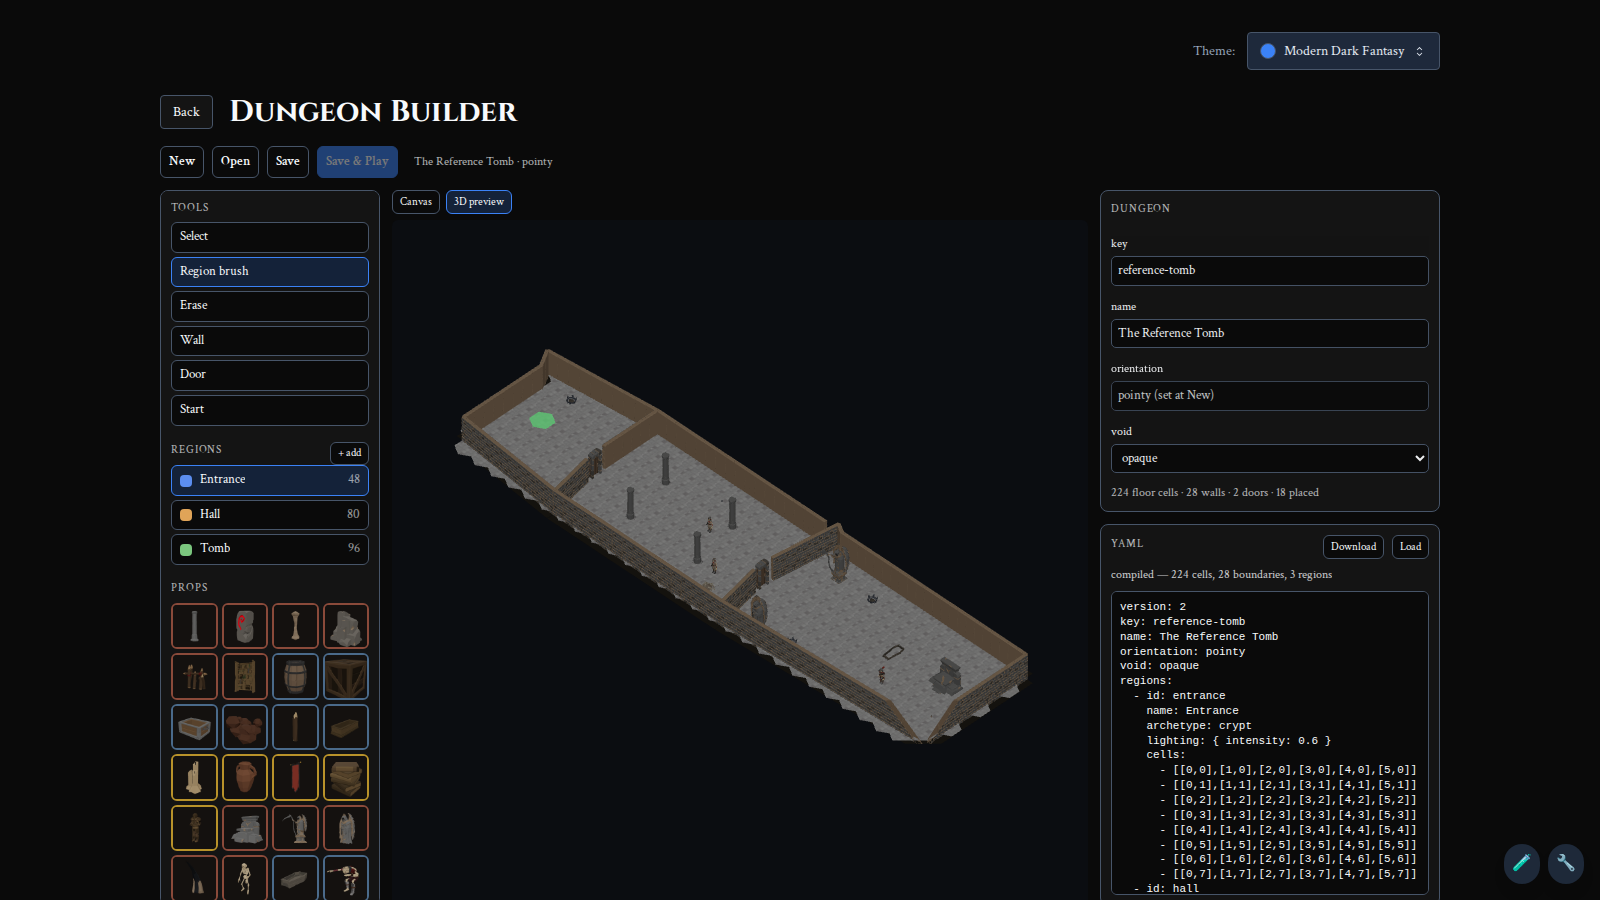
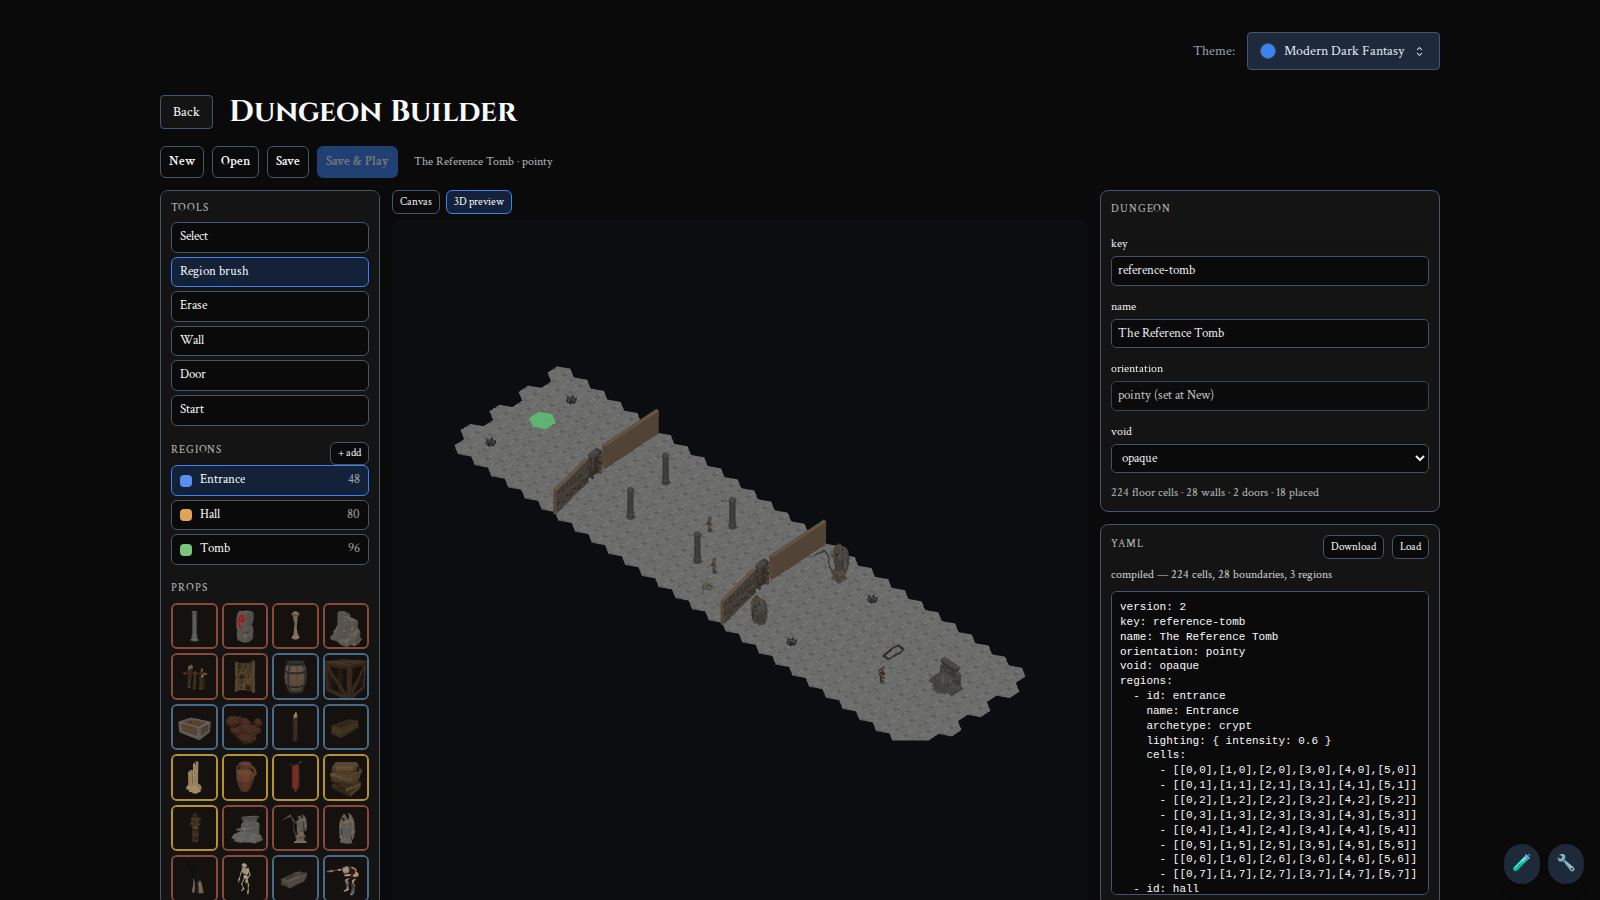
fix(session): draw nothing at the floor's own outer edge (Kirk ruling)
Kirk's live-walk ruling on PR #788, same day as #787's own fix:
"draw nothing, floor ends into darkness. that seems more honest about
the void." The floor/void envelope -- even the corrected version that
traced the real floor mask's outline instead of a bounding rectangle
-- is gone entirely. boundariesToWallRuns now feeds only atlas's
declared boundaries and doorways into the chaining engine; the floor's
own outer edge renders no wall geometry at all, authored or implied.
The void already blocks movement/sight mechanically (opaque void
blocks the whole hex); a floor that just ends into darkness is the
honest picture. An author who wants a visible outer wall draws one
like any other boundary -- no special casing, proven by a new test
that declares a boundary against a non-floor neighbor and confirms it
renders through the exact same code path as an interior wall.

Tests updated: the "envelope follows the real outline" test (added for
the original #787 fix) is replaced by a "draws nothing without a
declared wall" test; the reference-tomb regression now pins the
PERIMETER'S ABSENCE (no wall run near the true floor edges) instead of
its presence, while still pinning the two authored interior seams and
two door gaps unchanged. Screenshot in docs/evidence/ regenerated
against the new build to show the actual render: bare floor edges,
two straight interior walls.

Claude-Session: https://claude.ai/code/session_017MbNn6jFLjJwzTw6ZbY5M1

Changed region(s): [[0.2812, 0.3733, 0.6562, 0.84]]

diff --git a/src/components/session/atlasWallRuns.test.ts b/src/components/session/atlasWallRuns.test.ts
@@ -1,12 +1,25 @@
 /**
  * atlasWallRuns tests — straight-run geometry chained straight off the
  * authored edges (rpg-dnd5e-web#787), checked against the real 224-cell
- * reference-tomb fixture (Kirk's live-walk regression pin: same straight
- * envelope, same two seams, same two door gaps) and against small
- * hand-built fixtures for the shapes the real data doesn't exercise: a
- * partial interior wall that doesn't split the floor, an L-shaped seam,
- * a horizontal (row-type) seam, two doors on one seam, and a
- * non-rectangular floor's envelope.
+ * reference-tomb fixture (Kirk's live-walk regression pin: same two
+ * straight seams, same two door gaps — see the ruling-change note below
+ * for what changed about the PERIMETER) and against small hand-built
+ * fixtures for the shapes the real data doesn't exercise: a partial
+ * interior wall that doesn't split the floor, an L-shaped seam, a
+ * horizontal (row-type) seam, two doors on one seam, and a doorway
+ * overlapping a boundary on the same cell pair.
+ *
+ * # Ruling change, same day as #787
+ *
+ * Kirk, after seeing the first version (which traced the floor mask's
+ * real outline instead of a bounding rectangle) live: "draw nothing,
+ * floor ends into darkness. that seems more honest about the void." The
+ * floor's own outer edge draws NO wall geometry at all now, authored or
+ * implied — only `atlas.boundaries` and `atlas.doorways` render. An
+ * author who wants a visible outer wall draws one like any other
+ * boundary (see the "author-drawn wall at the floor's own edge"
+ * describe block below) — there is no special-cased "envelope" concept
+ * left to test.
  *
  * Coverage-style assertions ("every declared edge's own midpoint lies
  * near SOME run") rather than exact run counts, mirroring
@@ -179,17 +192,17 @@ describe('boundariesToWallRuns — the real reference tomb', () => {
     }
   });
 
-  it('the combined floor still reads as a wide footprint enclosing the whole 28x8 shape (same overall envelope Kirk approved, not a per-run recount)', () => {
+  it('draws nothing at the floor\'s own outer edge — ruling change, same day as #787 ("draw nothing, floor ends into darkness"): only the two interior seams render, not a perimeter', () => {
+    // The combined floor spans world x roughly 0..47.6 (28 columns *
+    // sqrt(3) hex spacing). If any perimeter wall geometry were still
+    // being drawn (the superseded outline-traced version), some run
+    // would sit near x=0 or x=47.6. With only the two interior seams
+    // (authored boundaries) rendering, every run's own geometry stays
+    // well inside that range, clustered around the two seams' own
+    // historically-measured x-bands (~9.5 and ~26.8).
     const xs = scene.wallRuns.flatMap((r) => [r.start.x, r.end.x]);
-    const zs = scene.wallRuns.flatMap((r) => [r.start.z, r.end.z]);
-    const width = Math.max(...xs) - Math.min(...xs);
-    const height = Math.max(...zs) - Math.min(...zs);
-    expect(width).toBeGreaterThan(45);
-    expect(width).toBeLessThan(55);
-    expect(height).toBeGreaterThan(8);
-    expect(height).toBeLessThan(13);
-    expect(Math.min(...xs)).toBeLessThan(1);
-    expect(Math.max(...xs)).toBeGreaterThan(46);
+    expect(Math.min(...xs)).toBeGreaterThan(5);
+    expect(Math.max(...xs)).toBeLessThan(35);
   });
 
   it('gives every run a finite, unit-length facing vector and non-zero length', () => {
@@ -305,7 +318,8 @@ describe('boundariesToWallRuns — an L-shaped interior seam', () => {
       },
       1
     );
-    // More than one run in total (interior seam + floor envelope).
+    // More than one run in total — the seam itself breaks into at least
+    // two legs at its corner (no floor envelope contributes anymore).
     expect(scene.wallRuns.length).toBeGreaterThan(1);
     // Every one of this interior wall's own declared edges — including
     // the ones flanking its 4 corners — is covered by some run: a bad
@@ -428,13 +442,13 @@ describe('boundariesToWallRuns — two doorways on the same seam (#782)', () => 
   });
 });
 
-describe('boundariesToWallRuns — a non-rectangular floor', () => {
-  it('the envelope follows the real notch, not the bounding rectangle: the notch’s own newly-exposed edges are covered by a run', () => {
-    // A 3x3 block missing its (2,2) corner cell — an L/notched floor. A
-    // bounding-RECTANGLE envelope has no per-cell adjacency data at all,
-    // so it could never place a wall at the notch (it only ever knows
-    // the floor's min/max col/row); the real outline tracer does, because
-    // it walks actual floor-vs-void adjacency.
+describe('boundariesToWallRuns — a non-rectangular floor with no declared walls', () => {
+  it('draws nothing at all, notch or no notch — there is no implied outline to trace anymore', () => {
+    // A 3x3 block missing its (2,2) corner cell — an L/notched floor,
+    // with NO boundaries or doorways declared. Before the ruling change
+    // this asserted the envelope traced the real notch instead of a
+    // bounding rectangle; now there is no envelope of any kind, so an
+    // undeclared floor edge (notched or straight) draws nothing at all.
     const cells: unknown[] = [];
     for (let q = 0; q <= 2; q++) {
       for (let r = 0; r <= 2; r++) {
@@ -446,18 +460,49 @@ describe('boundariesToWallRuns — a non-rectangular floor', () => {
       { cells: cells as never, boundaries: [] as never, doorways: [] as never },
       1
     );
-    // The two edges that exist ONLY because (2,2) is missing: (1,2)'s and
-    // (2,1)'s own edges toward where (2,2) would have been floor.
-    const notchEdges: Array<[CubeCoord, CubeCoord]> = [
-      [positionToCube(pos(1, 2)), positionToCube(pos(2, 2))],
-      [positionToCube(pos(2, 1)), positionToCube(pos(2, 2))],
+    expect(scene.wallRuns).toEqual([]);
+    expect(scene.doorGaps).toEqual([]);
+  });
+});
+
+describe('boundariesToWallRuns — an author-drawn wall at the floor’s own edge', () => {
+  it('renders exactly like any other boundary — no special-cased envelope path (ruling point 2: "if an author wants a visible outer wall, they draw it like any other wall")', () => {
+    // A single floor cell with ONE declared boundary against a NON-floor
+    // (void) neighbor — an author explicitly drawing an outer wall,
+    // using the exact same `atlas.boundaries` shape an interior wall
+    // uses. This module never checks whether a boundary's `to` is in
+    // the floor mask, so this is the same code path as any other
+    // boundary edge, proving the "no special casing" half of the ruling.
+    const cells = [pos(0, 0)];
+    const from = positionToCube(pos(0, 0));
+    const to = positionToCube(pos(1, 0)); // not in `cells` — a void neighbor
+    const boundaries = [
+      {
+        from: pos(0, 0),
+        to: pos(1, 0),
+        blocksMovement: true,
+        blocksLineOfSight: true,
+      },
     ];
-    for (const [from, to] of notchEdges) {
-      const mid = edgeMid(from, to);
-      expect(nearestRunDistance(mid, scene.wallRuns)).toBeLessThanOrEqual(
-        CHAIN_TOLERANCE + 1e-6
-      );
-    }
+    const scene = boundariesToWallRuns(
+      {
+        cells: cells as never,
+        boundaries: boundaries as never,
+        doorways: [] as never,
+      },
+      1
+    );
+    const { a, b } = hexEdgeBetween(from, to, 1);
+    const matchesRun = scene.wallRuns.some((r) => {
+      const forward =
+        Math.hypot(r.start.x - a.x, r.start.z - a.z) < 1e-6 &&
+        Math.hypot(r.end.x - b.x, r.end.z - b.z) < 1e-6;
+      const reverse =
+        Math.hypot(r.start.x - b.x, r.start.z - b.z) < 1e-6 &&
+        Math.hypot(r.end.x - a.x, r.end.z - a.z) < 1e-6;
+      return forward || reverse;
+    });
+    expect(matchesRun).toBe(true);
   });
 });
 
@@ -467,11 +512,20 @@ describe('boundariesToWallRuns — a doorway declared on the same cell pair as a
     // through" a declared boundary on the exact same adjacent cell pair.
     // If both edges were fed to the chaining engine unfiltered, the
     // boundary would still tile as a normal wall run and cover the door.
+    // An unrelated second boundary elsewhere in the fixture keeps this a
+    // real discriminator (scene.wallRuns isn't simply empty) now that
+    // there's no floor envelope to also fall back on.
     const cells = [pos(0, 0), pos(1, 0), pos(0, 1), pos(1, 1)];
     const boundaries = [
       {
         from: pos(0, 0),
         to: pos(1, 0),
+        blocksMovement: true,
+        blocksLineOfSight: true,
+      },
+      {
+        from: pos(0, 1),
+        to: pos(1, 1),
         blocksMovement: true,
         blocksLineOfSight: true,
       },
@@ -486,6 +540,7 @@ describe('boundariesToWallRuns — a doorway declared on the same cell pair as a
       1
     );
     expect(scene.doorGaps).toHaveLength(1);
+    expect(scene.wallRuns.length).toBeGreaterThan(0); // the OTHER boundary still renders
     const from = positionToCube(pos(0, 0));
     const to = positionToCube(pos(1, 0));
     const { a, b } = hexEdgeBetween(from, to, 1);
@@ -509,16 +564,13 @@ describe('boundariesToWallRuns — a doorway declared on the same cell pair as a
 });
 
 describe('boundariesToWallRuns — small edge cases', () => {
-  it('gives two chambers with no declared boundary between them zero interior wall geometry, only their own envelopes', () => {
+  it('gives two chambers with no declared boundary between them nothing at all — no envelope to fall back on', () => {
     const cells = [pos(0, 0), pos(10, 0)];
     const scene = boundariesToWallRuns(
       { cells: cells as never, boundaries: [] as never, doorways: [] as never },
       1
     );
-    expect(scene.doorGaps).toHaveLength(0);
-    // Still a real (non-empty) scene — two isolated single-hex envelopes,
-    // not nothing.
-    expect(scene.wallRuns.length).toBeGreaterThan(0);
+    expect(scene).toEqual({ wallRuns: [], doorGaps: [] });
   });
 
   it('gives an empty atlas empty runs instead of Infinity/NaN geometry (Copilot review, PR #764)', () => {

diff --git a/src/components/session/atlasWallRuns.ts b/src/components/session/atlasWallRuns.ts
@@ -1,8 +1,9 @@
 /**
- * atlasWallRuns — turns the session wire's DECLARED interior boundaries,
- * doorways, and floor cell mask into straight wall RUNS, by chaining the
- * AUTHORED edges themselves (rpg-dnd5e-web#787) — not by reconstructing
- * "chamber" geometry the wire never declares.
+ * atlasWallRuns — turns the session wire's DECLARED interior boundaries
+ * and doorways into straight wall RUNS, by chaining the AUTHORED edges
+ * themselves (rpg-dnd5e-web#787) — not by reconstructing "chamber"
+ * geometry the wire never declares, and NOT by inventing a wall at the
+ * floor's own outer edge.
  *
  * # Why this is no longer chamber-based
  *
@@ -21,43 +22,38 @@
  * skip); and a non-rectangular floor's envelope followed its bounding
  * RECTANGLE, not its real outline.
  *
- * # The fix: chain the real edges, don't infer regions
+ * # No more envelope at all (Kirk's ruling, same day, after seeing the
+ * outline-traced version live): "draw nothing, floor ends into
+ * darkness. that seems more honest about the void." The first fix for
+ * #787 (still traced from the real floor mask instead of a bounding
+ * rectangle) was itself superseded before merge — the floor's own
+ * outer edge draws NOTHING now, authored or implied. The void already
+ * blocks movement/sight mechanically (an opaque void blocks the whole
+ * hex, Kirk's separate standing ruling) with no visual masonry needed
+ * to sell it; a floor that just ends into darkness IS the honest
+ * picture. An author who wants a visible outer wall draws one like any
+ * other wall — `atlas.boundaries` — no special-cased "envelope" concept
+ * survives this file at all.
  *
- * `atlas.cells` + `atlas.boundaries` + `atlas.doorways` already carry
- * everything needed. This module builds one flat list of hex-adjacency
- * edges — every declared boundary, every doorway (as a break point, see
- * below), and every floor-cell-vs-void edge (the envelope, implied
- * exactly as the design ruling says: the author never draws it, it's
- * derived from the floor mask) — and hands the whole thing to
- * `authoredWallRuns.computeAuthoredWallRuns`, the chaining engine an
- * earlier slice (rpg-dnd5e-web#723-family) already built and proved for
- * exactly this problem: walk a graph of real hex edges into straight
- * runs via a Douglas-Peucker-style distance tolerance (a real zigzag
- * "eats" only a bounded amount before a chord across it stops matching
- * every visited vertex; a genuine corner's deviation grows unboundedly
- * the moment the walk is forced past it), breaking at branches, dead
- * ends, and door-adjacent vertices. It already handles closed loops
- * (Phase 2 of its own walk) — exactly what a floor's outer envelope is
- * — and isolated single-edge chains (a partial interior wall that
- * doesn't split anything renders as its own one-edge run, nothing to
- * drop).
+ * # The fix: chain the real authored edges, don't infer regions or an
+ * outer wall
  *
- * Feeding interior boundaries AND envelope edges into the SAME chaining
- * call (rather than two separate passes) is deliberate: they share the
- * real hex-corner graph, so a seam that reaches the floor's outer edge
- * MEETS the envelope run there by construction (the two runs share a
- * vertex) — Kirk's earlier "the walls do not touch" finding (PR #764)
- * doesn't need its own snapping step to not reappear; there's no seam
- * between two independently-computed pieces of geometry for it to hide
- * in anymore. `hexEdgeBetween`'s corner positions sit at the hex's own
- * apothem, not a cell center — this codebase's own
- * `DEFAULT_ENVELOPE_OFFSET_LEFT_RIGHT_HEXES` doc comment (wallRuns.ts)
- * already established that the bare apothem is sufficient clearance for
- * the boundary hex's own footprint, with the old 1.0-hex value being
- * "~0.134 more than the bare apothem, a modest safety margin" — so no
- * additional outward push is applied here. If that reads as too tight
- * in-game, it's a real follow-up (a small facing-aligned nudge), not a
- * geometry bug this rewrite claims to rule out.
+ * `atlas.boundaries` + `atlas.doorways` already carry everything this
+ * module draws. It builds one flat list of hex-adjacency edges — every
+ * declared boundary, every doorway (as a break point, see below) — and
+ * hands the whole thing to `authoredWallRuns.computeAuthoredWallRuns`,
+ * the chaining engine an earlier slice (rpg-dnd5e-web#723-family)
+ * already built and proved for exactly this problem: walk a graph of
+ * real hex edges into straight runs via a Douglas-Peucker-style
+ * distance tolerance (a real zigzag "eats" only a bounded amount before
+ * a chord across it stops matching every visited vertex; a genuine
+ * corner's deviation grows unboundedly the moment the walk is forced
+ * past it), breaking at branches, dead ends, and door-adjacent
+ * vertices. It already handles isolated single-edge chains (a partial
+ * interior wall that doesn't split anything renders as its own one-edge
+ * run, nothing to drop) — the closed-loop handling it also has (its own
+ * Phase 2) simply never triggers here anymore, since there is no
+ * implied outer loop being fed in.
  *
  * # Doors are placed from their own edge, not a derived row fraction
  *
@@ -74,7 +70,6 @@
 
 import {
   coordToKey,
-  getHexNeighbors,
   hexEdgeBetween,
   type CubeCoord,
   type WorldPos,
@@ -138,15 +133,18 @@ function pairKey(a: CubeCoord, b: CubeCoord): string {
 
 /**
  * boundariesToWallRuns is the module's one entry point: every declared
- * boundary, every doorway (as a chain break point), and every implied
- * floor/void envelope edge become one straight-run scene, plus one
- * DoorGapPiece per doorway.
+ * boundary and every doorway (as a chain break point) become one
+ * straight-run scene, plus one DoorGapPiece per doorway. The floor's own
+ * outer edge draws nothing — Kirk's ruling, same day as #787: "draw
+ * nothing, floor ends into darkness. that seems more honest about the
+ * void." An author who wants a visible outer wall draws one via
+ * `atlas.boundaries`, same as any interior wall.
  */
 export function boundariesToWallRuns(
   atlas: Pick<GetAtlasResponse, 'cells' | 'boundaries' | 'doorways'>,
   hexSize: number
 ): WallRunScene {
-  // An empty floor has no cells to derive envelope edges from at all —
+  // An empty floor has no doorway/boundary geometry worth deriving —
   // report an obviously-empty scene rather than let downstream geometry
   // silently degenerate (Copilot review, PR #764, the same guard this
   // module has always needed).
@@ -155,7 +153,6 @@ export function boundariesToWallRuns(
   }
 
   const cubes = atlas.cells.map(positionToCube);
-  const floorKeys = new Set(cubes.map(coordToKey));
 
   // A doorway "punches through" a boundary on the same cell pair -- a
   // shape this codebase already treats as valid (Copilot review, PR
@@ -190,18 +187,6 @@ export function boundariesToWallRuns(
       to: positionToCube(d.to),
       isDoor: true,
     });
-  }
-
-  // The envelope: implied, never authored — every floor cell's edge
-  // against a neighbor that is NOT floor. Fed into the same chaining
-  // call as the interior boundaries above (see module doc comment for
-  // why that's what makes a seam MEET the envelope with no separate
-  // snapping step).
-  for (const cube of cubes) {
-    for (const neighbor of getHexNeighbors(cube)) {
-      if (floorKeys.has(coordToKey(neighbor))) continue;
-      edges.push({ from: cube, to: neighbor, isDoor: false });
-    }
   }
 
   const wallRuns = computeAuthoredWallRuns(edges, hexSize, cubes);

diff --git a/src/components/session/AtlasWalls.tsx b/src/components/session/AtlasWalls.tsx
@@ -13,18 +13,18 @@
  * straight walls in the game previously. I do not think making the walls
  * follow the hex shapes is a good idea." The wire's AUTHORITY is
  * unchanged — `atlas.boundaries` still say which cell pairs are blocked,
- * the floor cell mask still says where the outside is, nothing here is
- * derived from room membership the wire doesn't declare — only the
- * PRESENTATION changed, in `atlasWallRuns.ts` (see its own module doc
- * comment for the geometry: envelope and interior seams alike are now
- * chained straight off the real authored edges via
- * `authoredWallRuns.computeAuthoredWallRuns`, rpg-dnd5e-web#787).
+ * nothing here is derived from room membership the wire doesn't declare
+ * — only the PRESENTATION changed, in `atlasWallRuns.ts` (see its own
+ * module doc comment for the geometry: declared boundaries and doorways
+ * are chained straight off the real authored edges via
+ * `authoredWallRuns.computeAuthoredWallRuns`, rpg-dnd5e-web#787 — and
+ * for why the floor's own outer edge draws NOTHING now, Kirk's same-day
+ * ruling change: "draw nothing, floor ends into darkness").
  *
  * `WallRunMesh` itself (`../hex-grid/WallRunMesh`) is untouched — this
- * route now renders entirely through its `authoredRuns` prop (envelope
- * and connector runs are no longer a separate shape at all; see
- * `atlasWallRuns.ts`'s header doc for why unifying them is correct, not
- * merely convenient) rather than its older `envelopeRuns`/`connectorRuns`
+ * route now renders entirely through its `authoredRuns` prop (there is
+ * no separate "envelope" shape at all anymore; see `atlasWallRuns.ts`'s
+ * header doc) rather than its older `envelopeRuns`/`connectorRuns`
  * props, which this route passes empty. `WallRunMesh` does not place
  * doors — this component supplies the door frame+leaf the same way
  * `SyntyHexWall.tsx` always has.
